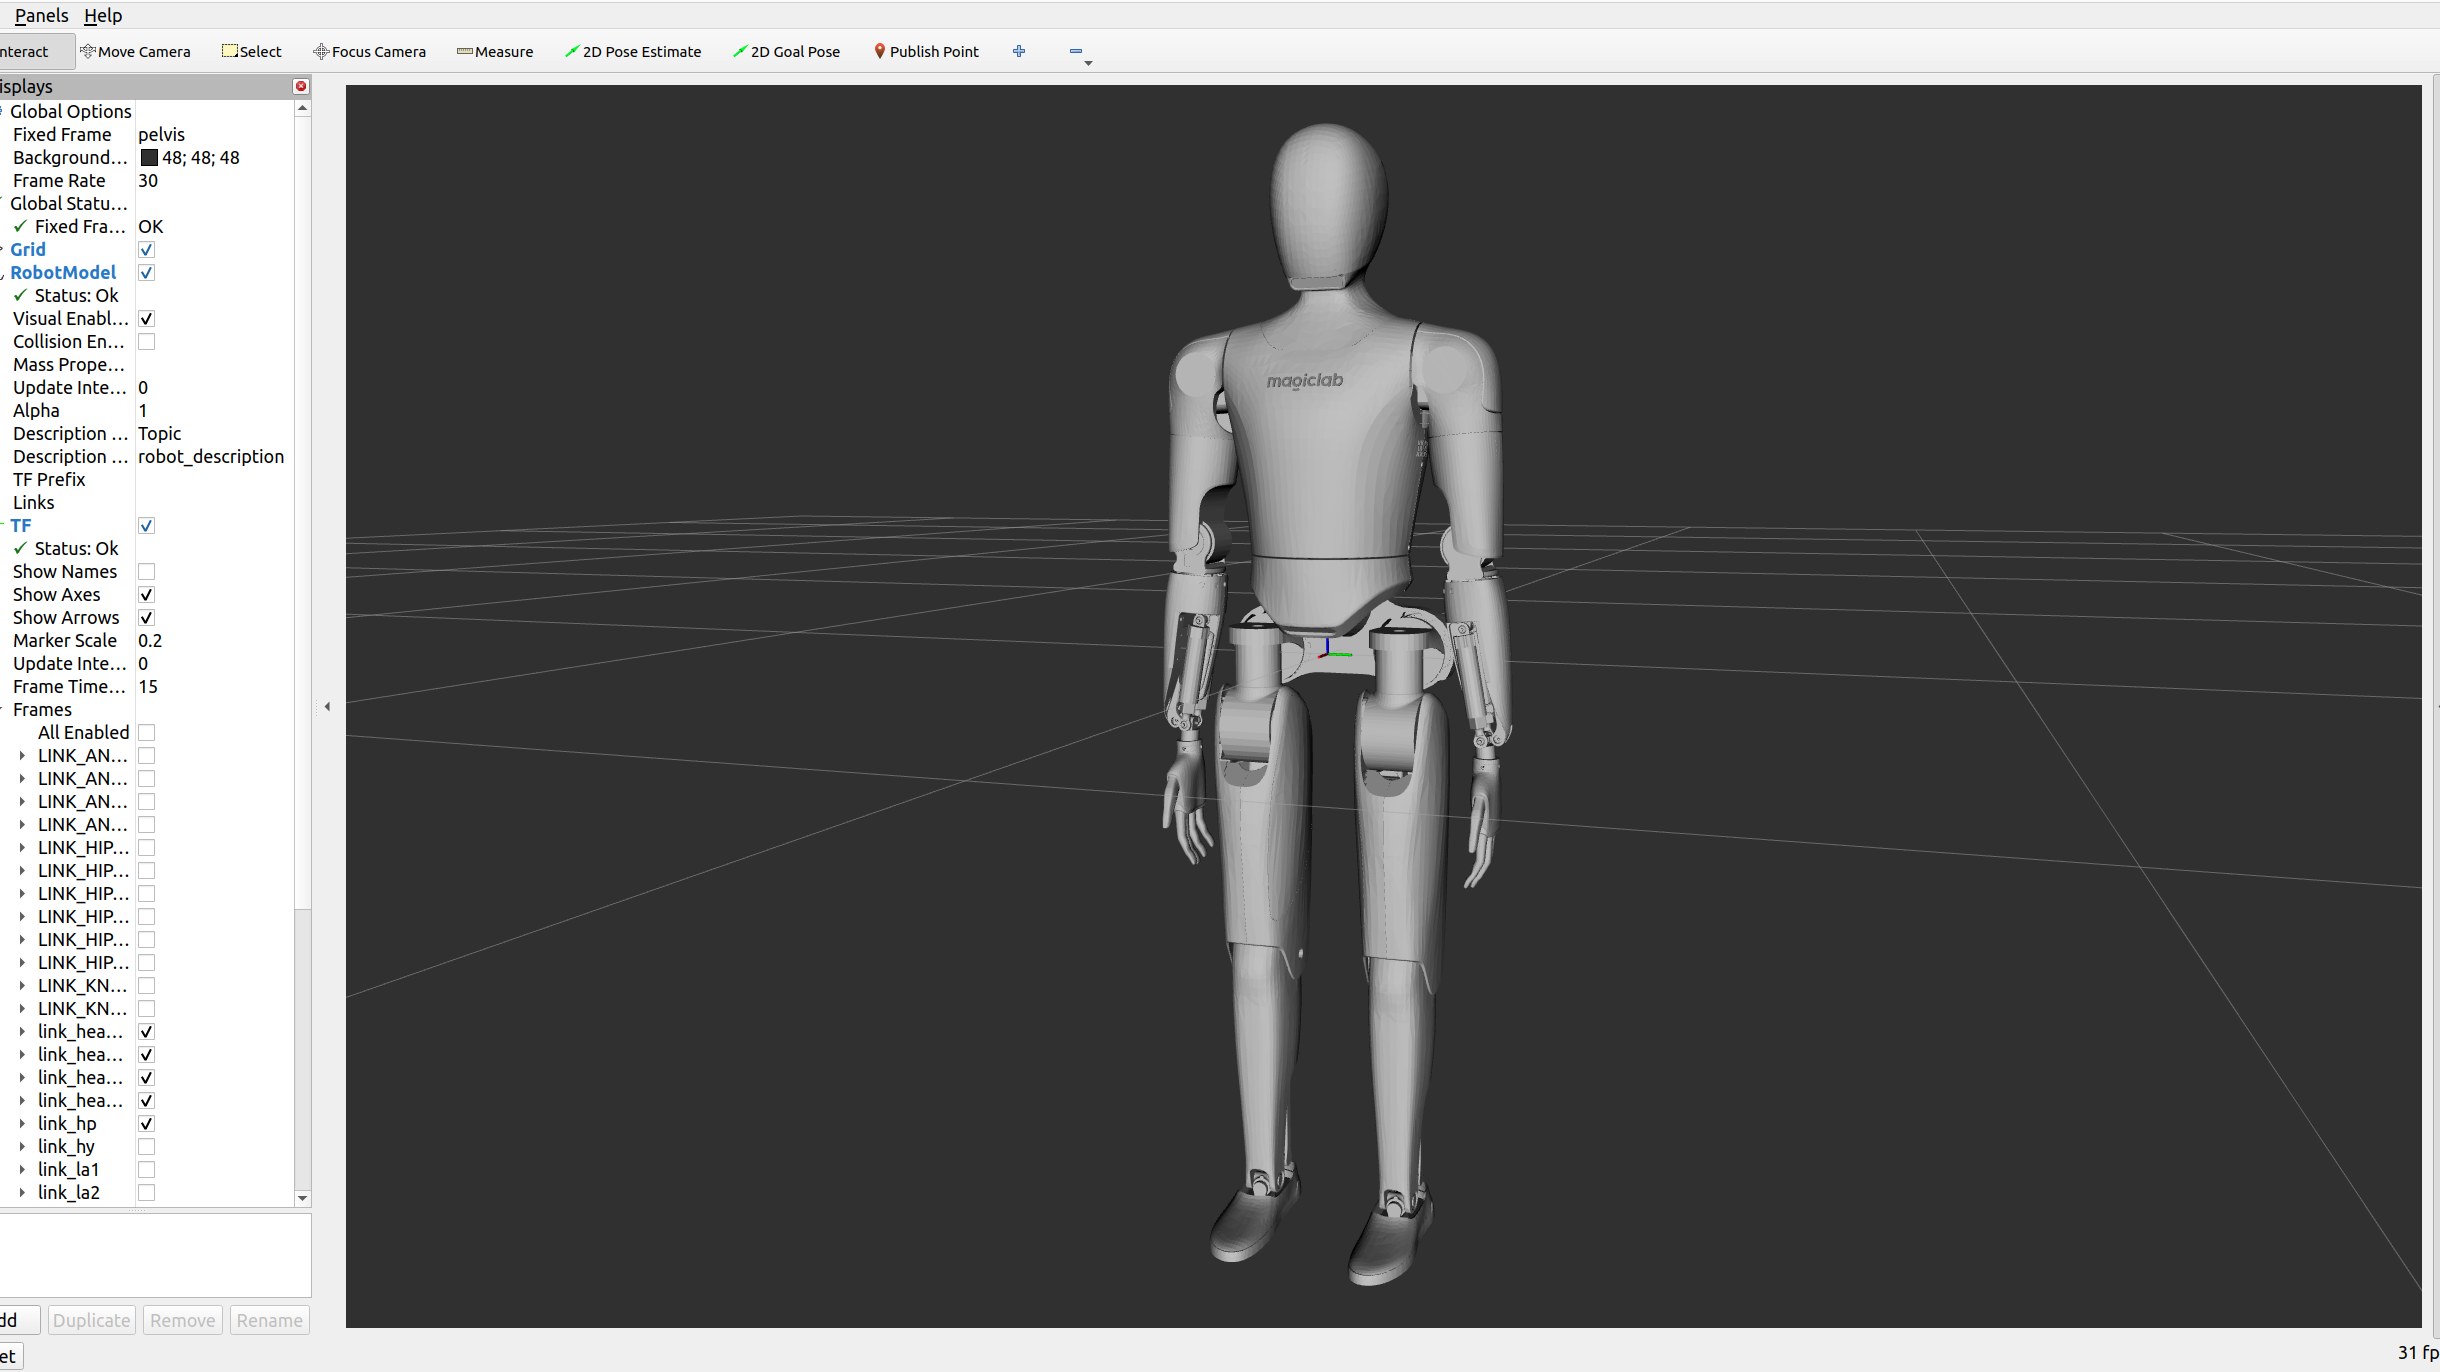
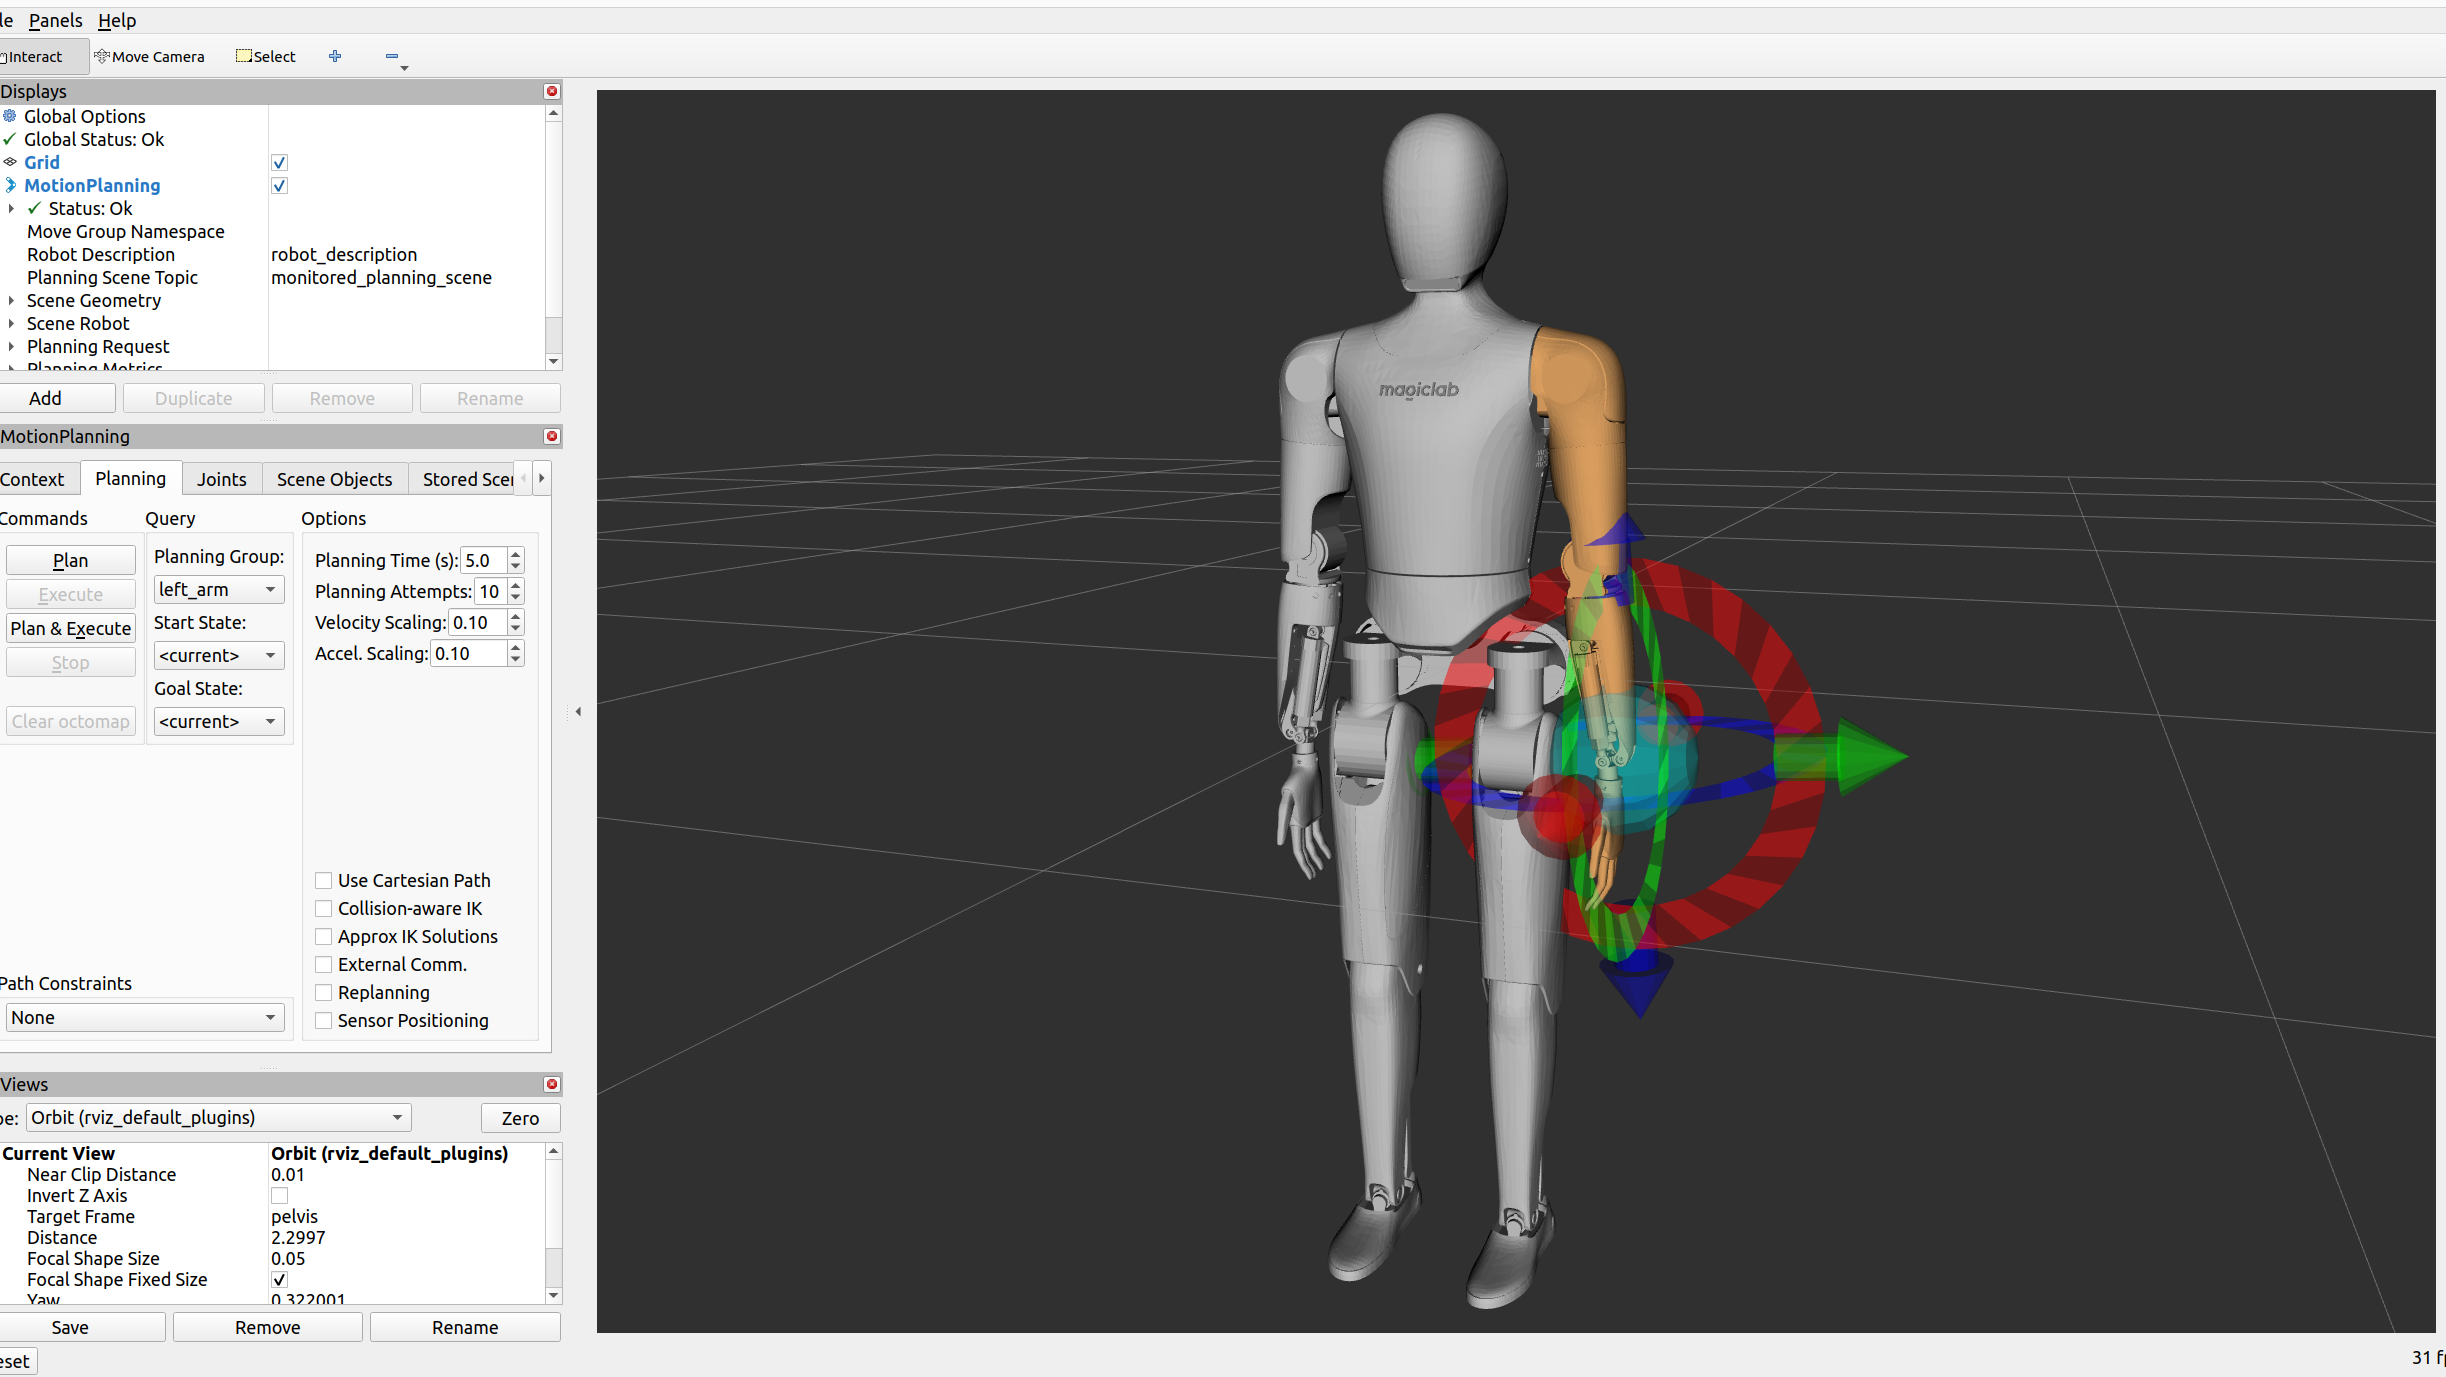
add moveit2 config

Changed region(s): [[0.0, 0.0, 1.0, 1.0], [0.7475, 0.3673, 0.9033, 0.4286]]

diff --git a/README.md b/README.md
@@ -2,7 +2,7 @@
 
 ## Overview
 
-This package includes a universal humanoid robot description (URDF & MJCF) for the [Magicbot-Gen1](https://www.magiclab.top/human), developed by Magiclab Robotics.
+This package includes a universal humanoid robot description (URDF & MJCF) and MoveIt2 configuration for the [Magicbot-Gen1](https://www.magiclab.top/human), developed by Magiclab Robotics.
 
 <table>
   <tr>
@@ -51,13 +51,25 @@ root [⚓] => /pelvis/
 ### RViz
 
 ```bash
-sudo apt install ros-<ros_distro>-joint-state-publisher-gui
+sudo apt install ros-humble-joint-state-publisher-gui
+cd magicbot-gen1_description
 colcon build
 source install/setup.bash
 ros2 launch magicbot_gen1_description view.launch.py 
 ```
+### MoveIt2
+```bash
+sudo apt install ros-humble-moveit ros-humble-moveit-visual-tools
+sudo apt install ros-humble-joint-state-broadcaster ros-humble-joint-trajectory-controller
+cd moveit2_config
+source ../install/setup.bash
+colcon build
+source install/setup.bash
+ros2 launch moveit2_config demo.launch.py 
+```
 ### MuJoCo
 ```bash
 pip install mujoco
+cd magicbot-gen1_description
 python3 -m mujoco.viewer --mjcf=mjcf/MAGICBOT.xml
 ```
